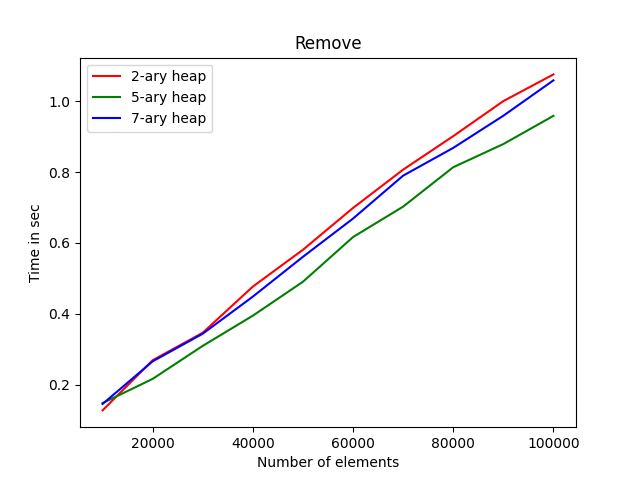
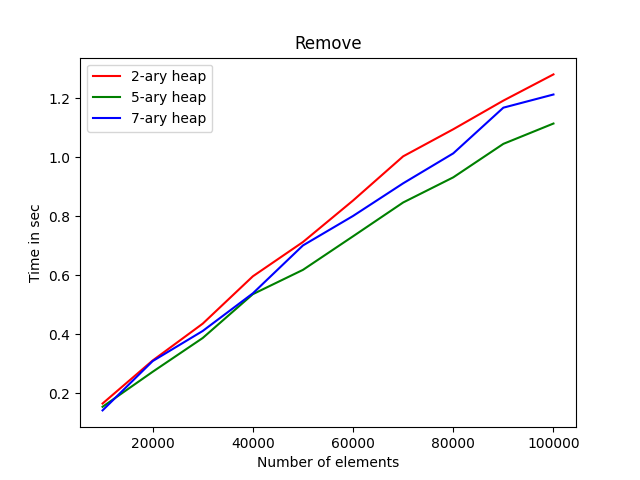
Revision

diff --git a/main.py b/main.py
@@ -56,16 +56,16 @@ def main():
     heap_2_ary_remove_time = []
     heap_5_ary_remove_time = []
     heap_7_ary_remove_time = []
-    heap.build_heap(heap_2_ary, 2, len(heap_2_ary))
-    heap.build_heap(heap_5_ary, 5, len(heap_5_ary))
-    heap.build_heap(heap_7_ary, 7, len(heap_7_ary))
+    new_2 = heap.build_heap(heap_2_ary, 2)
+    new_5 = heap.build_heap(heap_5_ary, 5)
+    new_7 = heap.build_heap(heap_7_ary, 7)
     for number in n:
         heap_2_ary_create_time.append(create_heap_time_measure(heap_2_ary[:number], 2)) # noqa 5501
         heap_5_ary_create_time.append(create_heap_time_measure(heap_5_ary[:number], 5)) # noqa 5501
         heap_7_ary_create_time.append(create_heap_time_measure(heap_7_ary[:number], 7)) # noqa 5501
-        heap_2_ary_remove_time.append(remove_time_measuer(heap_2_ary.copy(), number, 2)) # noqa 5501
-        heap_5_ary_remove_time.append(remove_time_measuer(heap_5_ary.copy(), number, 5)) # noqa 5501
-        heap_7_ary_remove_time.append(remove_time_measuer(heap_7_ary.copy(), number, 7)) # noqa 5501
+        heap_2_ary_remove_time.append(remove_time_measuer(new_2.copy(), number, 2)) # noqa 5501
+        heap_5_ary_remove_time.append(remove_time_measuer(new_5.copy(), number, 5)) # noqa 5501
+        heap_7_ary_remove_time.append(remove_time_measuer(new_7.copy(), number, 7)) # noqa 5501
     plot_create_time(heap_2_ary_create_time, heap_5_ary_create_time, heap_7_ary_create_time, "Building heaps") # noqa 5501
     plot_create_time(heap_2_ary_remove_time, heap_5_ary_remove_time, heap_7_ary_remove_time, "Remove") # noqa 5501
 

diff --git a/heap.py b/heap.py
@@ -99,15 +99,15 @@ if __name__ == "__main__":
     # print(arr)
     # test draw for 2
     tst2 = [0, 1, 2, 3, 4, 5, 6, 7, 8]
-    # tst2 = build_heap(tst2, 2)
+    tst2 = build_heap(tst2, 2)
     draw(tst2, 2)
 
     # test draw for 5
     tst5 = [i for i in range(34)]
-    # tst5 = build_heap(tst5, 5)
+    tst5 = build_heap(tst5, 5)
     draw(tst5, 5)
 
     # test draw for 7
     tst7 = [x for x in range(61)]
-    #tst7 = build_heap(tst7, 7)
+    tst7 = build_heap(tst7, 7)
     draw(tst7, 7)
